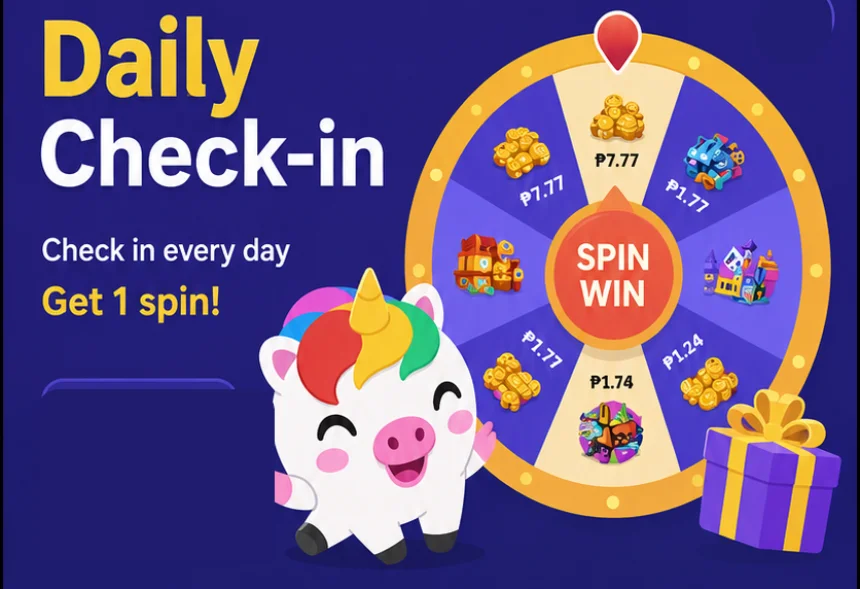
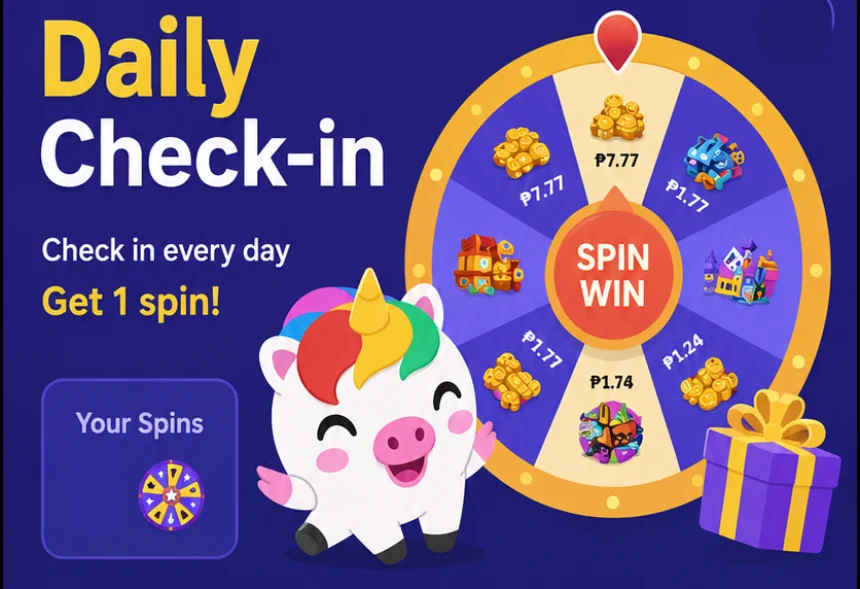
Daily Check-in 弹窗真机第二轮微调:降高+底色统一+Your Spins改烘焙盒+转盘图标居中
- 降低弹窗高度(pt-5→3、各卡内边距/格子/间距收紧),减小屏占比
- 面板底色改 from-#231e78 to-#1a1862 对齐 hero 上下边缘色,消除 hero 与弹窗接缝色差
- Your Spins 改为保留设计烘焙盒子(标签+转盘不再自绘,天然对齐),只抹掉写死的"1"、用 cqw 缩放的动态数字覆盖,整盒可点开转盘;彻底解决露底/歪斜
- 重切转盘图标 wheel.webp 精确居中(88x88 tight),配 rounded-full 不再偏心留紫边

Changed region(s): [[0.0302, 0.6418, 0.3326, 0.9779]]

diff --git a/apps/web-tma/src/components/promotion/CheckinSheet.tsx b/apps/web-tma/src/components/promotion/CheckinSheet.tsx
@@ -110,7 +110,7 @@ export default function CheckinSheet({ open, onClose, onOpenSpin }: Props) {
   return (
     <div className="fixed inset-0 z-[94] flex items-end justify-center bg-black/70">
       <div className="absolute inset-0" onClick={onClose} />
-      <div className="relative z-10 flex max-h-[100dvh] w-full max-w-[480px] flex-col overflow-hidden rounded-t-[28px] bg-gradient-to-b from-[#2b2792] via-[#272184] to-[#201c6c] pt-5">
+      <div className="relative z-10 flex max-h-[100dvh] w-full max-w-[480px] flex-col overflow-hidden rounded-t-[28px] bg-gradient-to-b from-[#231e78] to-[#1a1862] pt-3">
         <button
           type="button"
           className="absolute right-3 top-5 z-20 flex h-9 w-9 items-center justify-center rounded-full text-white/90 ring-1 ring-white/50 active:scale-95"
@@ -120,28 +120,30 @@ export default function CheckinSheet({ open, onClose, onOpenSpin }: Props) {
           <X size={18} />
         </button>
 
-        {/* Hero:标题/独角兽/转盘为设计图切图,Your Spins 数值动态覆盖 */}
-        <div className="relative flex-none">
+        {/* Hero:标题/独角兽/转盘/Your Spins 盒子均为设计图切图;仅动态数字覆盖烘焙的 "1" */}
+        <div className="relative flex-none" style={{ containerType: 'inline-size' }}>
           <img src={heroImg} alt="" className="block w-full select-none" draggable={false} />
 
-          {/* Your Spins 动态卡:盖住设计图内写死的 "1",数值来自签到转盘剩余次数 */}
+          {/* 整个 Your Spins 盒子可点开转盘(有剩余次数时) */}
           <button
             type="button"
             disabled={spinRemaining <= 0}
             onClick={() => { if (spinRemaining > 0) { onOpenSpin(); onClose() } }}
-            className="absolute flex flex-col justify-center rounded-2xl border border-[#524cbd] bg-[#312c98] px-[6%] text-left disabled:cursor-default"
-            style={{ left: '4.3%', top: '66%', width: '27%', height: '26%' }}
+            className="absolute disabled:cursor-default"
+            style={{ left: '4%', top: '65%', width: '28%', height: '29%' }}
+            aria-label={t('checkin.yourSpins')}
+          />
+          {/* 动态次数:对齐设计图内写死 "1" 的位置(已抹除),字号随宽度缩放 */}
+          <span
+            className="pointer-events-none absolute font-display font-black leading-none text-amber-400"
+            style={{ left: '9%', top: '83.5%', transform: 'translateY(-50%)', fontSize: '8.5cqw' }}
           >
-            <span className="whitespace-nowrap text-[11px] font-bold leading-tight text-indigo-100">{t('checkin.yourSpins')}</span>
-            <div className="mt-1 flex items-center gap-1">
-              <span className="font-display text-[21px] font-black leading-none text-amber-400">{spinRemaining}</span>
-              <Wheel className="h-[22px] w-[22px]" />
-            </div>
-          </button>
+            {spinRemaining}
+          </span>
         </div>
 
         {/* 主体:内容自适应高度,不滚动 */}
-        <div className="flex flex-col gap-3 px-3 pb-5 pt-3">
+        <div className="flex flex-col gap-2 px-3 pb-3 pt-2.5">
           {loading && <div className="py-10 text-center text-sm text-white/60">…</div>}
 
           {!loading && status && status.enabled === false && (
@@ -151,9 +153,9 @@ export default function CheckinSheet({ open, onClose, onOpenSpin }: Props) {
           {!loading && status && status.enabled !== false && (
             <>
               {/* ── This Week ── */}
-              <section className="rounded-2xl border border-white/12 bg-[#2c2793] p-3">
+              <section className="rounded-2xl border border-white/12 bg-[#2c2793] p-2.5">
                 <SectionTitle text={t('checkin.thisWeek')} />
-                <div className="mt-3.5 grid grid-cols-7 gap-1.5">
+                <div className="mt-2.5 grid grid-cols-7 gap-1.5">
                   {status.cycle.map((c) => {
                     const done = c.day < status.cycleDay || (c.day === status.cycleDay && status.todayClaimed)
                     const active = c.day === status.cycleDay && !status.todayClaimed
@@ -161,7 +163,7 @@ export default function CheckinSheet({ open, onClose, onOpenSpin }: Props) {
                     return (
                       <div
                         key={c.day}
-                        className={`relative flex flex-col items-center gap-1.5 rounded-xl px-0.5 py-2.5 ${
+                        className={`relative flex flex-col items-center gap-1 rounded-xl px-0.5 py-2 ${
                           active ? 'border-2 border-amber-400 bg-[#37329e]'
                           : done ? 'bg-[#37329e]'
                           : 'border border-dashed border-[#6f68cf]'
@@ -190,21 +192,21 @@ export default function CheckinSheet({ open, onClose, onOpenSpin }: Props) {
                     )
                   })}
                 </div>
-                <div className="mt-3 flex items-center justify-center gap-2 rounded-xl bg-black/15 px-4 py-2.5 text-[12px] text-indigo-200/80">
+                <div className="mt-2.5 flex items-center justify-center gap-2 rounded-xl bg-black/15 px-4 py-2 text-[12px] text-indigo-200/80">
                   <span className="flex h-4 w-4 items-center justify-center rounded-full text-[10px] ring-1 ring-indigo-200/60">i</span>
                   {t('checkin.streakResetHint')}
                 </div>
               </section>
 
               {/* ── Monthly Milestones ── */}
-              <section className="rounded-2xl border border-white/12 bg-[#2c2793] p-3">
+              <section className="rounded-2xl border border-white/12 bg-[#2c2793] p-2.5">
                 <SectionTitle text={t('checkin.milestoneTitle')} />
-                <p className="mt-1.5 text-center text-[12px] text-indigo-200/80">{t('checkin.milestoneSubtitle')}</p>
-                <div className="mt-3 grid grid-cols-3 gap-2">
+                <p className="mt-1 text-center text-[12px] text-indigo-200/80">{t('checkin.milestoneSubtitle')}</p>
+                <div className="mt-2.5 grid grid-cols-3 gap-2">
                   {status.milestones.map((m) => {
                     const frac = Math.max(0, Math.min(1, status.monthDays / m.atDays))
                     return (
-                      <div key={m.atDays} className="flex flex-col rounded-xl border border-white/10 bg-[#37329e] px-3 py-3">
+                      <div key={m.atDays} className="flex flex-col rounded-xl border border-white/10 bg-[#37329e] px-3 py-2.5">
                         <div className="flex items-baseline gap-1">
                           <span className="text-lg font-black leading-none text-white">{m.atDays}</span>
                           <span className="text-[11px] font-bold text-white/70">{t('checkin.daysWord')}</span>
